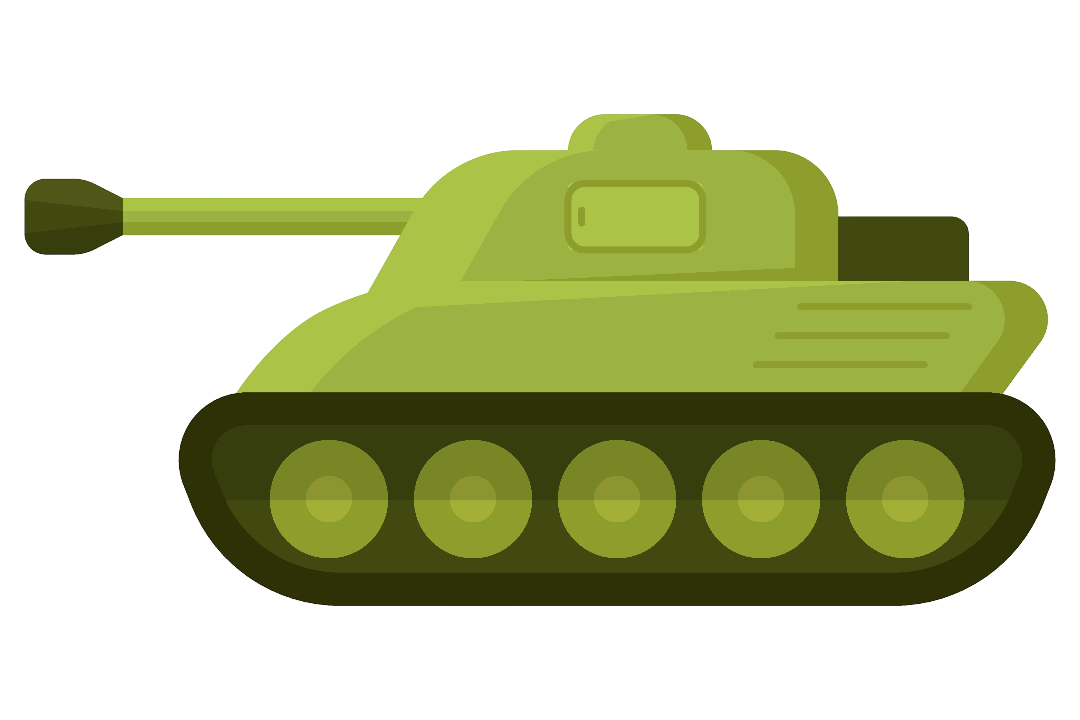
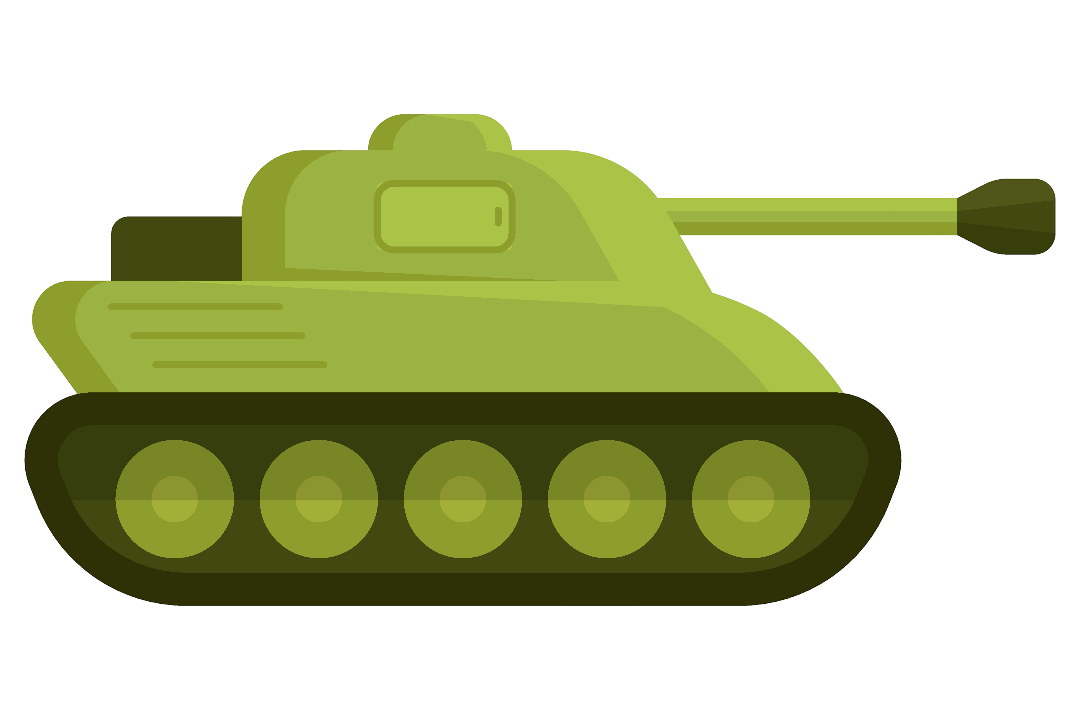
final update to tank movements.

diff --git a/src/script.ts b/src/script.ts
@@ -16,9 +16,10 @@ class Tank {
   controls: { up: string; down: string; left: string; right: string };
   keysPressed: Set<string> = new Set();
   baseSpeed: number;
-maxSpeed: number;
-acceleration: number;
-deceleration: number;
+  maxSpeed: number;
+  acceleration: number;
+  deceleration: number;
+  lastDirection: Direction = "none";
 
   constructor(
     tankImage: string,
@@ -29,7 +30,6 @@ deceleration: number;
     team: number,
     location: { x: number; y: number },
     controls: { up: string; down: string; left: string; right: string }
-    
   ) {
     this.tankImage = tankImage;
     this.width = width;
@@ -39,11 +39,12 @@ deceleration: number;
     this.team = team;
     this.location = location;
     this.controls = controls;
-      this.baseSpeed = speed;
-  this.maxSpeed = speed * 5; 
-  this.acceleration = speed * 0.1;
-  this.deceleration = speed * 0.15; 
-  this.speed = 0; 
+    this.baseSpeed = speed;
+    this.maxSpeed = speed * 5;
+    this.acceleration = speed * 0.1;
+    this.deceleration = speed * 0.15;
+    this.speed = 0;
+    
 
     window.addEventListener("keydown", (event) => {
       if (
@@ -57,43 +58,49 @@ deceleration: number;
         this.keysPressed.add(event.key);
       }
     });
-    window.addEventListener("keyup", (event) =>{
-      this.keysPressed.delete(event.key)
+    window.addEventListener("keyup", (event) => {
+      this.keysPressed.delete(event.key);
+    });
+  }
+  move() {
+    let moved = false;
+    let isMoving = this.keysPressed.size > 0;
+  
+    
+    if (this.keysPressed.has(this.controls.up)) {
+      this.location.y -= this.speed;
+      moved = true;
+      this.direction = "up";
 
-    })
-  }
-move() {
-  let moved = false;
-  let isMoving = this.keysPressed.size > 0;
+    }
+    if (this.keysPressed.has(this.controls.down)) {
+      this.location.y += this.speed;
+      moved = true;
+      this.direction = "down";
+    
+    }
+    if (this.keysPressed.has(this.controls.left)) {
+      this.location.x -= this.speed;
+      moved = true;
+      this.direction = "left";
+    }
+    if (this.keysPressed.has(this.controls.right)) {
+      this.location.x += this.speed;
+      moved = true;
+      this.direction = "right";
+    }
 
-  if (this.keysPressed.has(this.controls.up)){
-    this.location.y -= this.speed;
-    moved = true;
-  }
-  if (this.keysPressed.has(this.controls.down)){
-    this.location.y += this.speed;
-    moved = true;
-  }
-  if (this.keysPressed.has(this.controls.left)){
-    this.location.x -= this.speed;
-    moved = true;
-  }
-  if (this.keysPressed.has(this.controls.right)){
-    this.location.x += this.speed;
-    moved = true;
-  }
+    // Handle acceleration/deceleration
+    if (isMoving) {
+      this.speed = Math.min(this.speed + this.acceleration, this.maxSpeed);
+    } else {
+      this.speed = Math.max(this.speed - this.deceleration, 0);
+    }
 
-  // Handle acceleration/deceleration
-  if (isMoving) {
-    this.speed = Math.min(this.speed + this.acceleration, this.maxSpeed);
-  } else {
-    this.speed = Math.max(this.speed - this.deceleration, 0);
+    if (moved || this.speed > 0) {
+      this.renderTank();
+    }
   }
-
-  if (moved || this.speed > 0) {
-    this.renderTank();
-  }
-}
   renderTank() {
     const container = document.querySelector(".tanksRoot") as HTMLElement;
     if (!container) {
@@ -111,11 +118,36 @@ move() {
     }
     this.updatePosition();
   }
-  updatePosition() {
-    if (this.playerElement) {
-      this.playerElement.style.transform = `translate(${this.location.x}px, ${this.location.y}px)`;
+updatePosition() {
+  if (this.playerElement) {
+ 
+    if (this.direction !== this.lastDirection && this.direction !== "none") {
+
+      this.playerElement.classList.remove('tank-flip-left', 'tank-flip-right', 'tank-rotate-up', 'tank-rotate-down');
+      
+      switch (this.direction) {
+        case "left":
+          this.playerElement.classList.add('tank-flip-left');
+          break;
+        case "right":
+          this.playerElement.classList.add('tank-flip-right');
+          break;
+        case "up":
+          this.playerElement.classList.add('tank-rotate-up');
+          break;
+        case "down":
+          this.playerElement.classList.add('tank-rotate-down');
+          break;
+      }
+      
+      this.lastDirection = this.direction;
     }
+    
+    // Update position //
+    this.playerElement.style.left = `${this.location.x}px`;
+    this.playerElement.style.top = `${this.location.y}px`;
   }
+}
 }
 
 // ==============================
@@ -126,7 +158,7 @@ const tankA = new Tank(
   "<img src='./assets/playerTank.png' alt='playerTank'>",
   50,
   50,
-  0.1,
+  0.15,
 
   "none",
   2, //team
@@ -142,7 +174,7 @@ const tankB = new Tank(
   "<img src='./assets/enemyTank.png' alt='enemyTank'>",
   50,
   50,
-  0.1,
+  0.15,
   "none",
   2, //team
   { x: 10, y: 5 },
@@ -168,3 +200,5 @@ function gameLoop() {
 
 // Start the game loop
 gameLoop();
+
+

diff --git a/src/dist/script.js b/src/dist/script.js
@@ -5,6 +5,7 @@ var Tank = /** @class */ (function () {
     function Tank(tankImage, width, height, speed, direction, team, location, controls) {
         var _this = this;
         this.keysPressed = new Set();
+        this.lastDirection = "none";
         this.tankImage = tankImage;
         this.width = width;
         this.height = height;
@@ -38,18 +39,22 @@ var Tank = /** @class */ (function () {
         if (this.keysPressed.has(this.controls.up)) {
             this.location.y -= this.speed;
             moved = true;
+            this.direction = "up";
         }
         if (this.keysPressed.has(this.controls.down)) {
             this.location.y += this.speed;
             moved = true;
+            this.direction = "down";
         }
         if (this.keysPressed.has(this.controls.left)) {
             this.location.x -= this.speed;
             moved = true;
+            this.direction = "left";
         }
         if (this.keysPressed.has(this.controls.right)) {
             this.location.x += this.speed;
             moved = true;
+            this.direction = "right";
         }
         // Handle acceleration/deceleration
         if (isMoving) {
@@ -81,7 +86,27 @@ var Tank = /** @class */ (function () {
     };
     Tank.prototype.updatePosition = function () {
         if (this.playerElement) {
-            this.playerElement.style.transform = "translate(" + this.location.x + "px, " + this.location.y + "px)";
+            if (this.direction !== this.lastDirection && this.direction !== "none") {
+                this.playerElement.classList.remove('tank-flip-left', 'tank-flip-right', 'tank-rotate-up', 'tank-rotate-down');
+                switch (this.direction) {
+                    case "left":
+                        this.playerElement.classList.add('tank-flip-left');
+                        break;
+                    case "right":
+                        this.playerElement.classList.add('tank-flip-right');
+                        break;
+                    case "up":
+                        this.playerElement.classList.add('tank-rotate-up');
+                        break;
+                    case "down":
+                        this.playerElement.classList.add('tank-rotate-down');
+                        break;
+                }
+                this.lastDirection = this.direction;
+            }
+            // Update position //
+            this.playerElement.style.left = this.location.x + "px";
+            this.playerElement.style.top = this.location.y + "px";
         }
     };
     return Tank;
@@ -89,14 +114,14 @@ var Tank = /** @class */ (function () {
 // ==============================
 // =========  VIEW   ============
 // ==============================
-var tankA = new Tank("<img src='./assets/playerTank.png' alt='playerTank'>", 50, 50, 0.1, "none", 2, //team
+var tankA = new Tank("<img src='./assets/playerTank.png' alt='playerTank'>", 50, 50, 0.15, "none", 2, //team
 { x: 1000, y: 0 }, {
     up: "ArrowUp",
     down: "ArrowDown",
     left: "ArrowLeft",
     right: "ArrowRight"
 });
-var tankB = new Tank("<img src='./assets/enemyTank.png' alt='enemyTank'>", 50, 50, 0.1, "none", 2, //team
+var tankB = new Tank("<img src='./assets/enemyTank.png' alt='enemyTank'>", 50, 50, 0.15, "none", 2, //team
 { x: 10, y: 5 }, {
     up: "w",
     down: "s",

diff --git a/src/dist/style.css b/src/dist/style.css
@@ -90,6 +90,48 @@ body {
   position: absolute;
 }
 
+.tank-flip-left {
+  animation: flipToLeft 0.3s ease-out forwards;
+}
+
+.tank-flip-right {
+  animation: flipToRight 0.3s ease-out forwards;
+}
+
+.tank-rotate-up {
+  animation: rotateToUp 0.1s ease-out forwards;
+}
+
+.tank-rotate-down {
+  animation: rotateToDown 0.1s ease-out forwards;
+}
+
+@keyframes flipToLeft {
+  from {
+    transform: scaleX(1);
+  }
+  to {
+    transform: scaleX(-1);
+  }
+}
+@keyframes flipToRight {
+  from {
+    transform: scaleX(-1);
+  }
+  to {
+    transform: scaleX(1);
+  }
+}
+@keyframes rotateToUp {
+  to {
+    transform: rotate(270deg);
+  }
+}
+@keyframes rotateToDown {
+  to {
+    transform: rotate(90deg);
+  }
+}
 button {
   background-color: #4b4b4b;
   color: white;

diff --git a/src/style.scss b/src/style.scss
@@ -100,6 +100,43 @@ body {
 }
 
 
+
+.tank-flip-left {
+  animation: flipToLeft 0.3s ease-out forwards;
+}
+
+.tank-flip-right {
+  animation: flipToRight 0.3s ease-out forwards;
+}
+
+.tank-rotate-up {
+  animation: rotateToUp 0.1s ease-out forwards;
+}
+
+.tank-rotate-down {
+  animation: rotateToDown 0.1s ease-out forwards;
+}
+
+@keyframes flipToLeft {
+  from { transform: scaleX(1); }
+  to { transform: scaleX(-1); }
+}
+
+@keyframes flipToRight {
+  from { transform: scaleX(-1); }
+  to { transform: scaleX(1); }
+}
+
+@keyframes rotateToUp {
+    to { transform: rotate(270deg); }
+
+}
+
+@keyframes rotateToDown {
+  to { transform: rotate(90deg); }
+}
+
+
 button {
   background-color: #4b4b4b;
   color: white;
